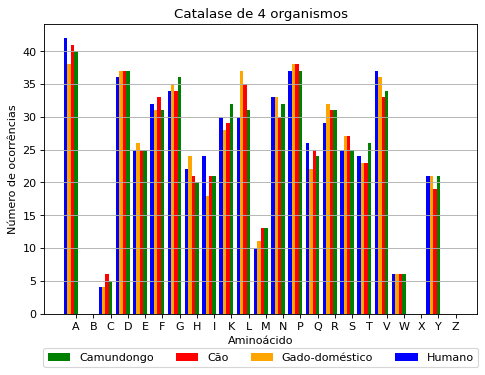
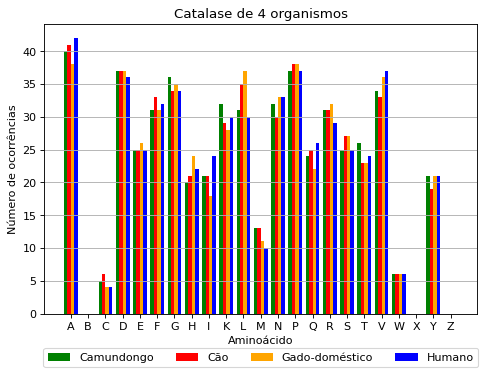
Passo 3 pronto 090620 02:31

Changed region(s): [[0.1237, 0.088, 0.9588, 0.88]]

diff --git a/Graficos.py b/Graficos.py
@@ -37,12 +37,12 @@ def agrupado(aa,num):
   i=0
   colors=['green','red','orange','blue']
   for o in organismos:
-    plt.bar(x - bar_width*i, num[o], width=bar_width, color=colors[i],label=o)
+    plt.bar(x + bar_width*i, num[o], width=bar_width, color=colors[i],label=o)
     i=i+1
 
   #labels
   #adjust x until it is centered
-  plt.xticks(x, aa)
+  plt.xticks(x+ bar_width*3/2, aa)
   plt.title('Catalase de 4 organismos')
   plt.xlabel('Aminoácido')
   plt.ylabel('Número de ocorrências')
